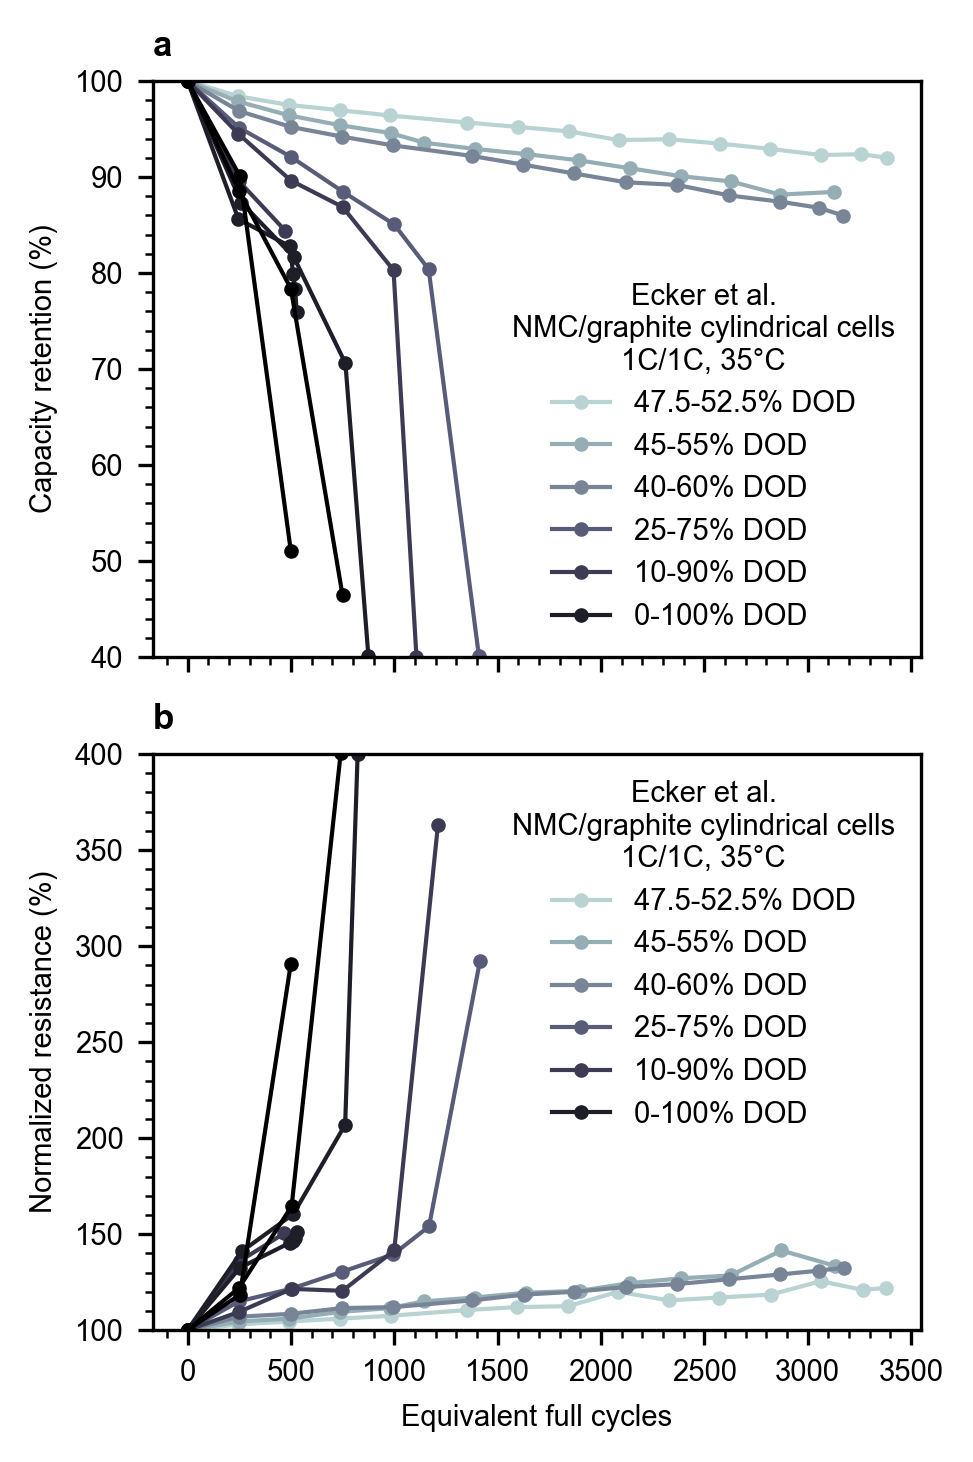
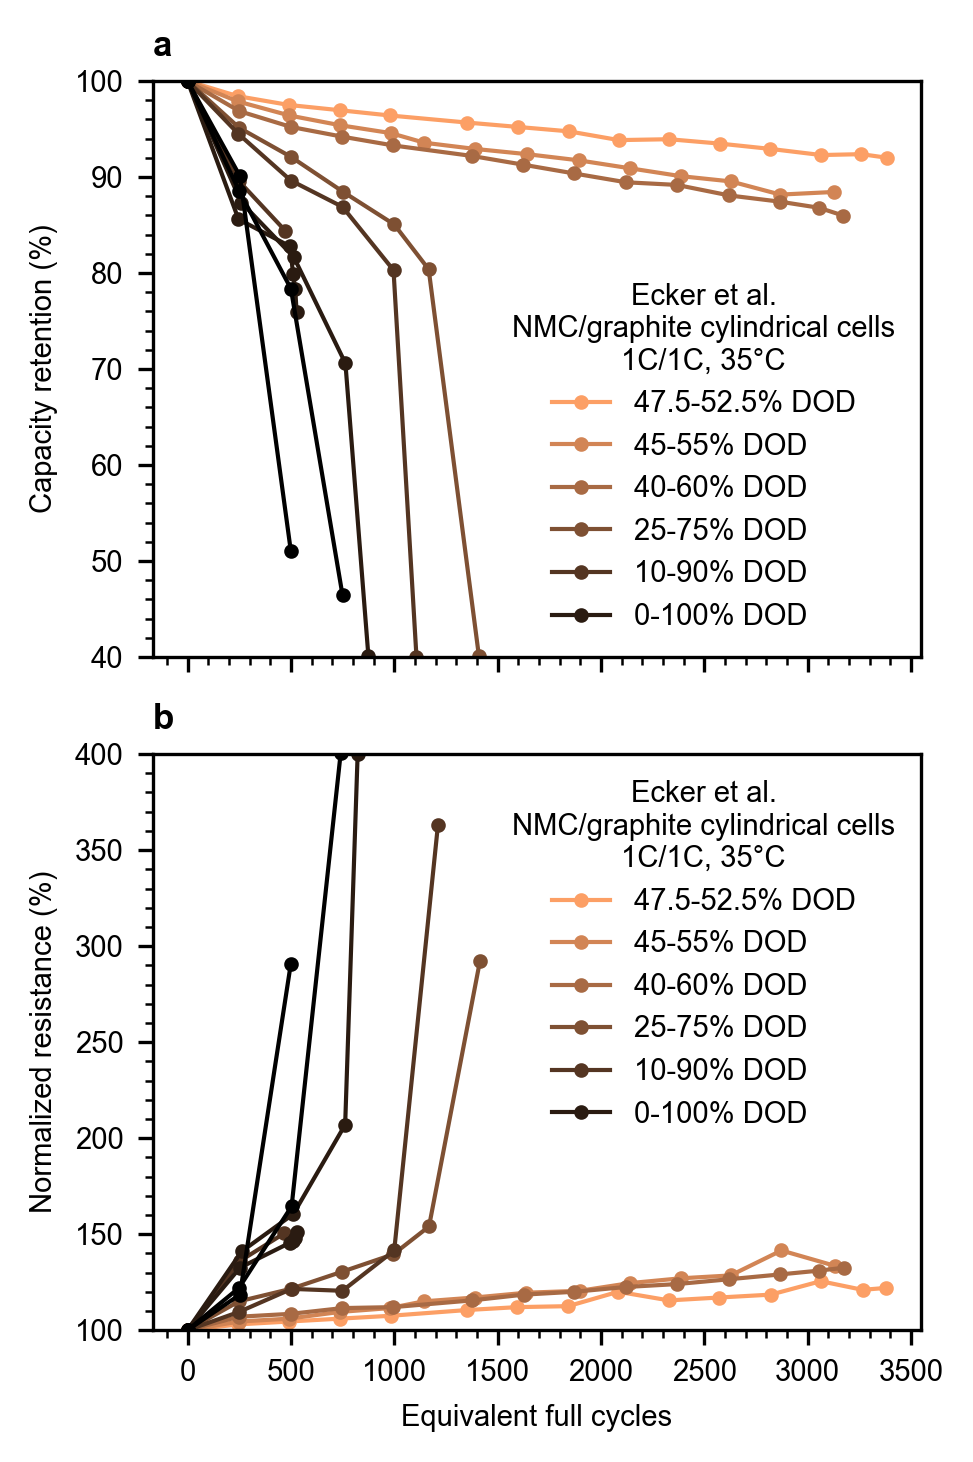
Miniscule tweaks

diff --git a/code/figure_ecker.py b/code/figure_ecker.py
@@ -24,7 +24,7 @@ df_capacity = pd.read_excel(file, sheet_name="Capacity")
 df_resistance = pd.read_excel(file, sheet_name="Resistance")
 
 # Define colors
-colors = cm.get_cmap('bone')(np.linspace(0.8, 0.0, 7))
+colors = cm.get_cmap('copper')(np.linspace(0.8, 0.0, 7))
 
 # Plot vs. cycle number
 # Generate figure handles

diff --git a/code/figure_x_axis_sensitivity.py b/code/figure_x_axis_sensitivity.py
@@ -67,7 +67,7 @@ for k in np.arange(5):
 
 # Settings
 for k in [2, 3]:
-    ax[k].legend(title="Wang et al.[30]", loc="upper right")
+    ax[k].legend(title="Wang et al.", loc="upper right")
     ax[k].set_title(chr(97 + k), loc="left", weight="bold")
     ax[k].set_ylabel("Capacity retention (%)")
     
